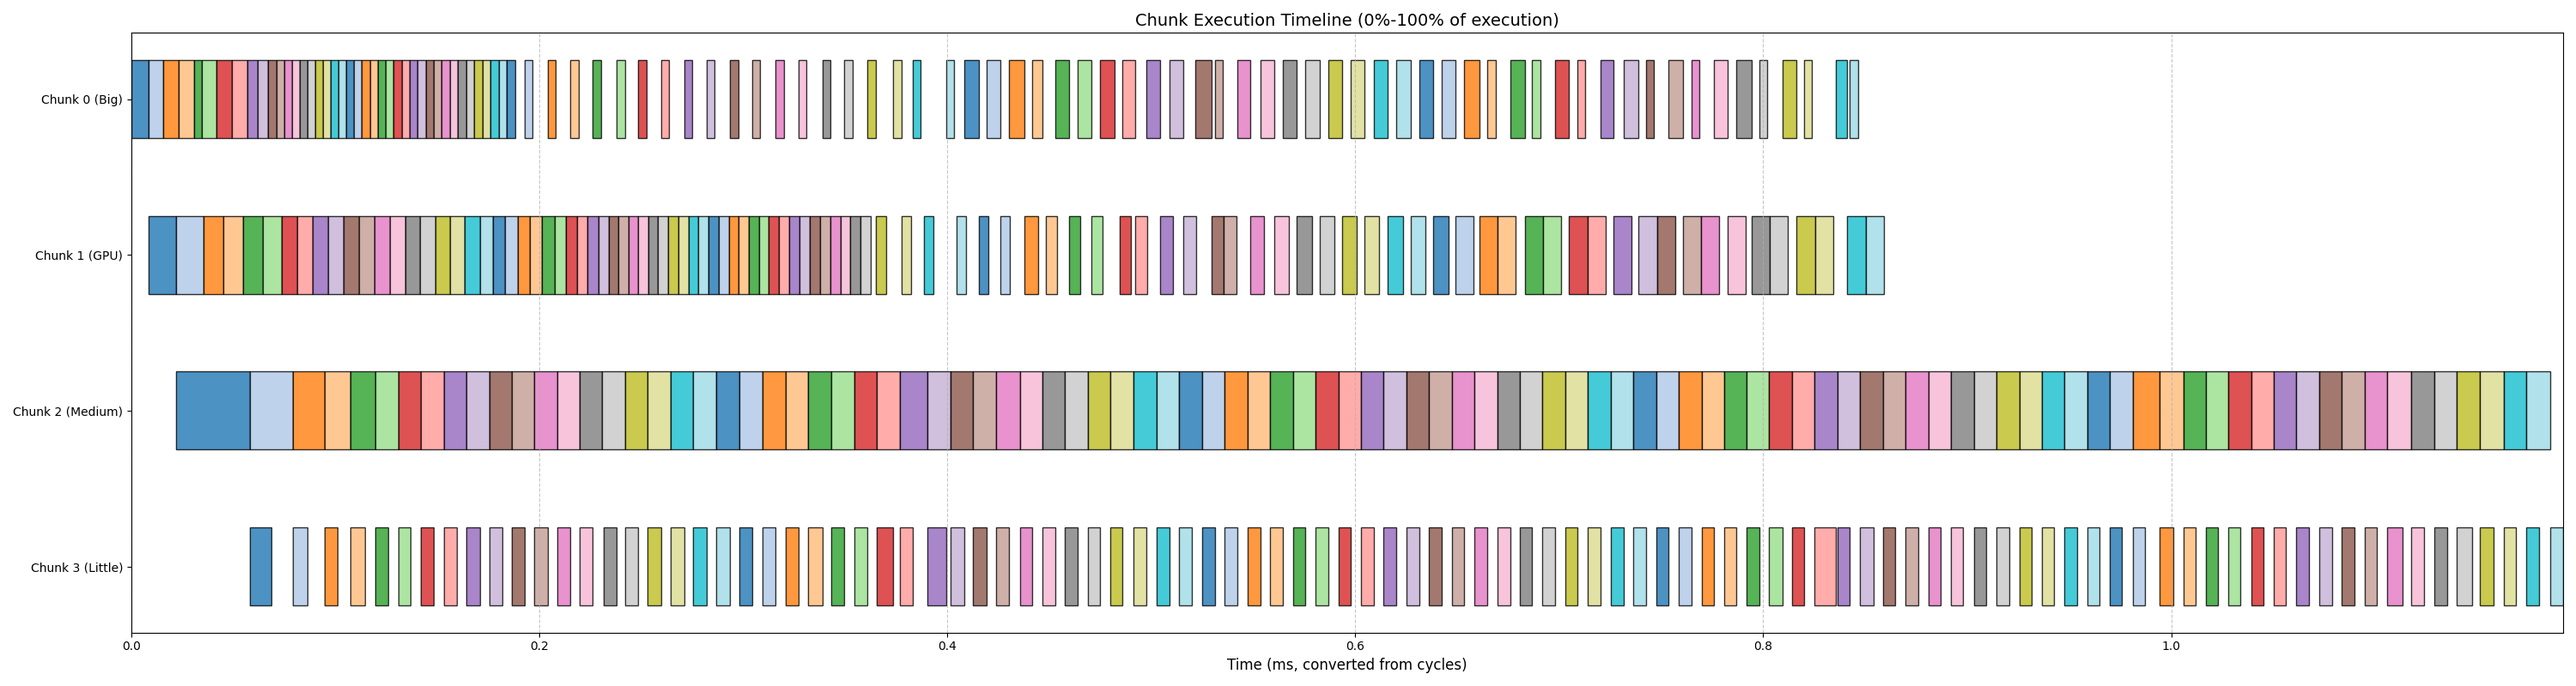
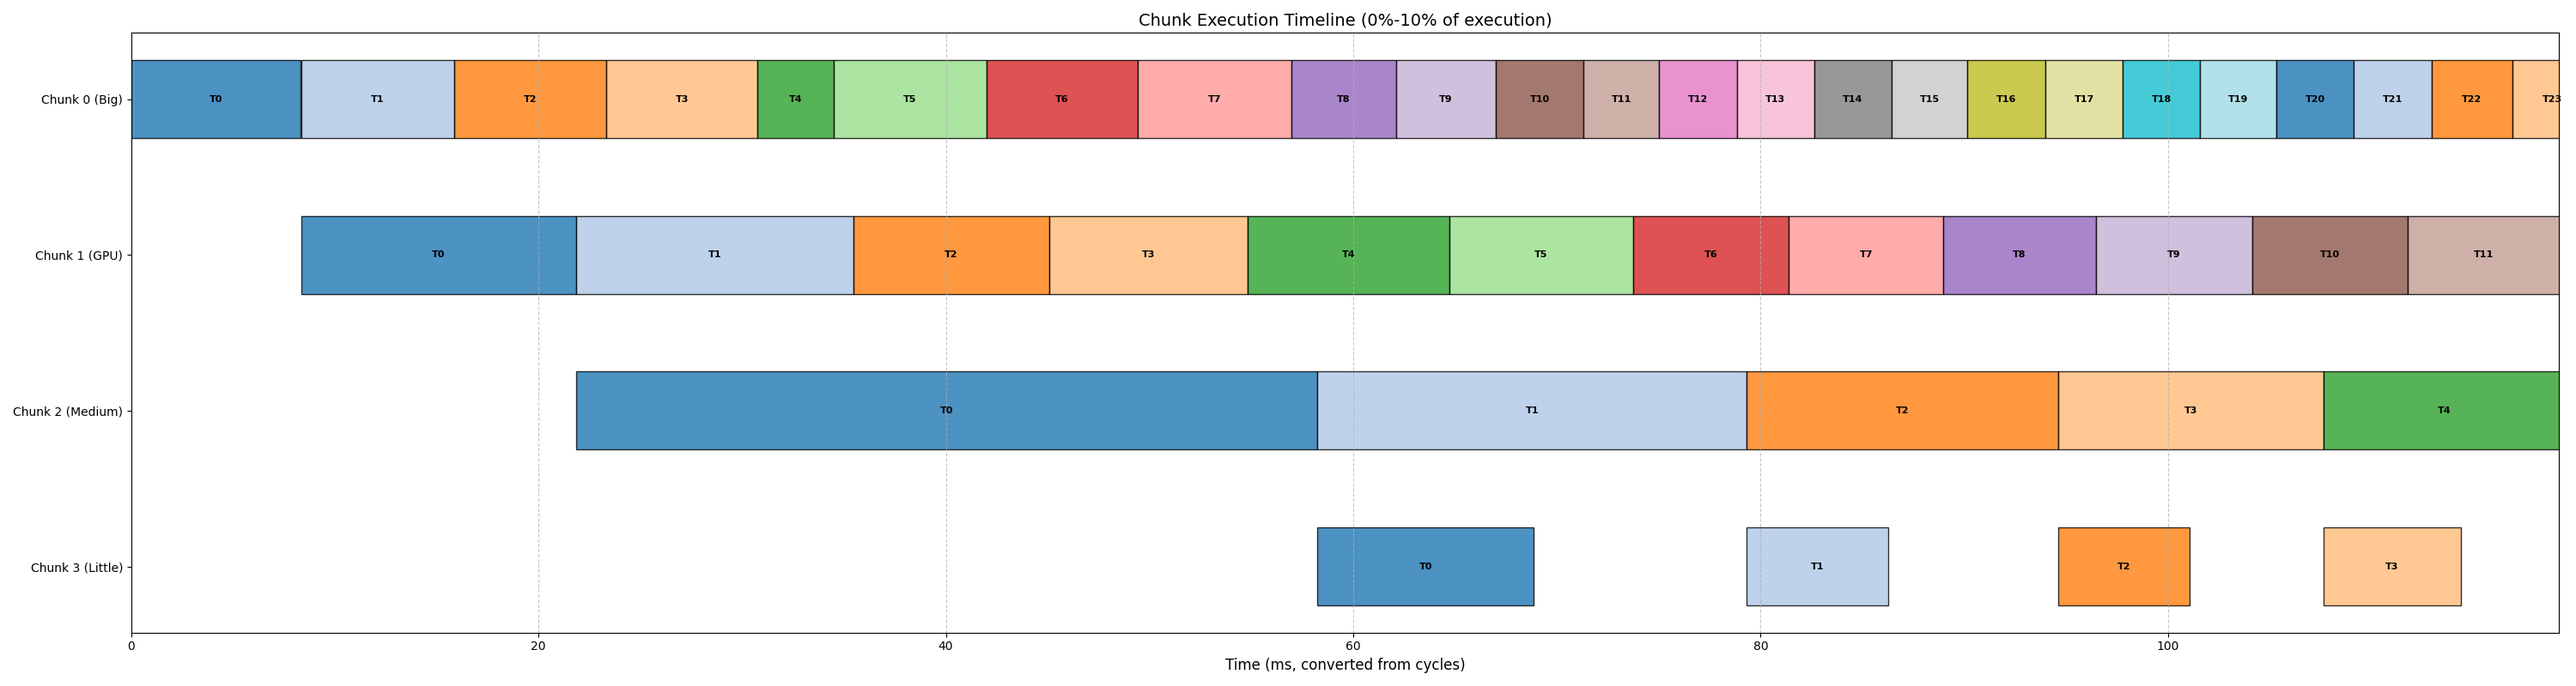
save

diff --git a/scripts-v2/analysis/gen_chunk_figure.py b/scripts-v2/analysis/gen_chunk_figure.py
@@ -2,6 +2,7 @@ import os
 import re
 import matplotlib.pyplot as plt
 import numpy as np
+from collections import defaultdict
 
 base_dir = os.path.dirname(os.path.abspath(__file__))
 import argparse
@@ -23,7 +24,7 @@ parser.add_argument(
     default=0.0,
 )
 parser.add_argument(
-    "--end-time", 
+    "--end-time",
     type=float,
     help="End time as percentage (0.0-1.0) of overall execution",
     default=1.0,
@@ -78,7 +79,9 @@ for line in lines:
     # Match duration in cycles
     duration_match = re.match(r"Duration: (\d+) cycles", line)
     if duration_match:
-        tasks[current_task][current_chunk]["duration_cycles"] = int(duration_match.group(1))
+        tasks[current_task][current_chunk]["duration_cycles"] = int(
+            duration_match.group(1)
+        )
         continue
 
 # Find the maximum chunk ID in the data
@@ -129,44 +132,71 @@ for task_id in tasks:
     for chunk_id in tasks[task_id]:
         if "start" in tasks[task_id][chunk_id] and "end" in tasks[task_id][chunk_id]:
             # Calculate relative time from start (in cycles)
-            tasks[task_id][chunk_id]["start_norm"] = tasks[task_id][chunk_id]["start"] - min_time
-            tasks[task_id][chunk_id]["end_norm"] = tasks[task_id][chunk_id]["end"] - min_time
-            
+            tasks[task_id][chunk_id]["start_norm"] = (
+                tasks[task_id][chunk_id]["start"] - min_time
+            )
+            tasks[task_id][chunk_id]["end_norm"] = (
+                tasks[task_id][chunk_id]["end"] - min_time
+            )
+
             # Use provided duration if available, otherwise calculate it
             if "duration_cycles" in tasks[task_id][chunk_id]:
                 duration_cycles = tasks[task_id][chunk_id]["duration_cycles"]
             else:
-                duration_cycles = tasks[task_id][chunk_id]["end"] - tasks[task_id][chunk_id]["start"]
-            
+                duration_cycles = (
+                    tasks[task_id][chunk_id]["end"] - tasks[task_id][chunk_id]["start"]
+                )
+
             # Store the duration in cycles
             tasks[task_id][chunk_id]["duration_cycles"] = duration_cycles
 
 # Frequency: 24576000 Hz
 # 1 cycle = 1e6 / 24576000 us
 # 1 cycle = 1e3 / 24576000 ms
-CYCLES_TO_MS = 1.0 / 24576000.0  # Convert cycles to milliseconds
+CYCLES_TO_MS = 1e3 / 24576000.0  # Convert cycles to milliseconds
 
 # Create a dictionary to organize tasks by chunk
 chunks_data = {chunk_id: [] for chunk_id in range(max_chunk_id + 1)}
 
+# Data structures for analysis
+tasks_in_region = set()
+task_durations_by_chunk = defaultdict(lambda: defaultdict(list))
+chunk_total_durations = defaultdict(float)
+
 # Fill in the chunks_data dictionary and filter by time range
 for task_id in tasks:
     for chunk_id in tasks[task_id]:
-        if "start" in tasks[task_id][chunk_id] and "duration_cycles" in tasks[task_id][chunk_id]:
+        if (
+            "start" in tasks[task_id][chunk_id]
+            and "duration_cycles" in tasks[task_id][chunk_id]
+        ):
             # Only include chunks that overlap with our time range
             start_time = tasks[task_id][chunk_id]["start"]
             end_time = tasks[task_id][chunk_id]["end"]
-            
+
             # Skip chunks entirely outside our time range
             if end_time < filter_start_time or start_time > filter_end_time:
                 continue
-                
-            chunks_data[chunk_id].append({
-                "task_id": task_id,
-                "start_ms": (tasks[task_id][chunk_id]["start_norm"]) * CYCLES_TO_MS,
-                "duration_ms": tasks[task_id][chunk_id]["duration_cycles"] * CYCLES_TO_MS,
-                "type": tasks[task_id][chunk_id].get("type", "")
-            })
+
+            # Track tasks in this region
+            tasks_in_region.add(task_id)
+
+            # Track durations for each task in each chunk
+            duration_cycles = tasks[task_id][chunk_id]["duration_cycles"]
+            task_durations_by_chunk[chunk_id][task_id].append(duration_cycles)
+
+            # Track total duration for each chunk
+            chunk_total_durations[chunk_id] += duration_cycles
+
+            chunks_data[chunk_id].append(
+                {
+                    "task_id": task_id,
+                    "start_ms": (tasks[task_id][chunk_id]["start_norm"]) * CYCLES_TO_MS,
+                    "duration_ms": tasks[task_id][chunk_id]["duration_cycles"]
+                    * CYCLES_TO_MS,
+                    "type": tasks[task_id][chunk_id].get("type", ""),
+                }
+            )
 
 # Sort chunk data by start time
 for chunk_id in chunks_data:
@@ -183,7 +213,9 @@ fig, ax = plt.subplots(figsize=(30, 8))  # Increased width to 30 inches
 task_color_map = plt.colormaps["tab20"]
 
 # Define chunk names for y-axis labels based on their types
-chunk_names = [f"Chunk {i} ({chunk_types.get(i, 'Unknown')})" for i in range(max_chunk_id + 1)]
+chunk_names = [
+    f"Chunk {i} ({chunk_types.get(i, 'Unknown')})" for i in range(max_chunk_id + 1)
+]
 
 # Draw the chunks
 y_ticks = []
@@ -193,16 +225,16 @@ for i, chunk_id in enumerate(range(max_chunk_id + 1)):
     y_pos = max_chunk_id - i  # Reverse order to have Chunk 0 at the bottom
     y_ticks.append(y_pos)
     y_labels.append(chunk_names[chunk_id])
-    
+
     # Draw each task in this chunk
     for task_data in chunks_data[chunk_id]:
         task_id = task_data["task_id"]
         start_ms = task_data["start_ms"]
         duration_ms = task_data["duration_ms"]
-        
+
         # Generate color based on task_id for consistency
         color = task_color_map(task_id % 20)
-        
+
         # Draw the bar
         bar = ax.barh(
             y_pos,
@@ -233,7 +265,10 @@ for i, chunk_id in enumerate(range(max_chunk_id + 1)):
 ax.set_yticks(y_ticks)
 ax.set_yticklabels(y_labels)
 ax.set_xlabel("Time (ms, converted from cycles)", fontsize=12)
-ax.set_title(f"Chunk Execution Timeline ({args.start_time*100:.0f}%-{args.end_time*100:.0f}% of execution)", fontsize=14)
+ax.set_title(
+    f"Chunk Execution Timeline ({args.start_time*100:.0f}%-{args.end_time*100:.0f}% of execution)",
+    fontsize=14,
+)
 ax.grid(True, axis="x", linestyle="--", alpha=0.7)
 
 # Set the x-axis limits to our desired time range
@@ -259,3 +294,76 @@ plt.close()
 
 print(f"Chunk execution timeline saved to {output_path}")
 print(f"Time range displayed: {display_start_ms:.2f}ms to {display_end_ms:.2f}ms")
+
+# ----- ANALYSIS OUTPUT -----
+
+# 1. Print all tasks in the region
+print("\n======= TASKS IN SELECTED REGION =======")
+sorted_tasks = sorted(tasks_in_region)
+print(
+    f"Found {len(sorted_tasks)} tasks in the region {args.start_time:.2f}-{args.end_time:.2f}"
+)
+print(f"Tasks: {', '.join(map(str, sorted_tasks))}")
+
+# 2. Calculate and print average duration for each task in each chunk
+print("\n======= AVERAGE TASK DURATIONS BY CHUNK =======")
+for chunk_id in range(max_chunk_id + 1):
+    if chunk_id not in task_durations_by_chunk:
+        continue
+
+    chunk_type = chunk_types.get(chunk_id, "Unknown")
+    print(f"Chunk {chunk_id} ({chunk_type}):")
+
+    # Calculate average duration for each task
+    for task_id, durations in sorted(task_durations_by_chunk[chunk_id].items()):
+        avg_duration_cycles = sum(durations) / len(durations)
+        avg_duration_ms = avg_duration_cycles * CYCLES_TO_MS
+        print(
+            f"  Task {task_id}: {avg_duration_cycles:.2f} cycles ({avg_duration_ms:.6f} ms)"
+        )
+
+    # Print average across all tasks for this chunk
+    all_durations = [
+        d
+        for task_durations in task_durations_by_chunk[chunk_id].values()
+        for d in task_durations
+    ]
+    if all_durations:
+        avg_all_tasks_cycles = sum(all_durations) / len(all_durations)
+        avg_all_tasks_ms = avg_all_tasks_cycles * CYCLES_TO_MS
+        print(
+            f"  All Tasks Average: {avg_all_tasks_cycles:.2f} cycles ({avg_all_tasks_ms:.6f} ms)"
+        )
+    print()
+
+# 3. Find the widest chunk (most execution time) in the region
+print("\n======= WIDEST CHUNK IN REGION =======")
+if chunk_total_durations:
+    widest_chunk_id = max(chunk_total_durations, key=chunk_total_durations.get)
+    widest_chunk_duration_cycles = chunk_total_durations[widest_chunk_id]
+    widest_chunk_duration_ms = widest_chunk_duration_cycles * CYCLES_TO_MS
+    widest_chunk_type = chunk_types.get(widest_chunk_id, "Unknown")
+
+    print(f"Widest chunk: Chunk {widest_chunk_id} ({widest_chunk_type})")
+    print(
+        f"Total execution time: {widest_chunk_duration_cycles:.2f} cycles ({widest_chunk_duration_ms:.6f} ms)"
+    )
+
+    # Calculate percentage of time spent in this chunk
+    total_execution_cycles = sum(chunk_total_durations.values())
+    percentage = (widest_chunk_duration_cycles / total_execution_cycles) * 100
+    print(f"Percentage of selected region execution time: {percentage:.2f}%")
+
+    # Show execution breakdown for all chunks
+    print("\nExecution time breakdown for all chunks in region:")
+    for chunk_id, duration in sorted(
+        chunk_total_durations.items(), key=lambda x: x[1], reverse=True
+    ):
+        chunk_type = chunk_types.get(chunk_id, "Unknown")
+        duration_ms = duration * CYCLES_TO_MS
+        chunk_percentage = (duration / total_execution_cycles) * 100
+        print(
+            f"  Chunk {chunk_id} ({chunk_type}): {duration:.2f} cycles ({duration_ms:.6f} ms), {chunk_percentage:.2f}%"
+        )
+else:
+    print("No chunk execution data found in the selected region.")

diff --git a/scripts-v2/gen_schedule/schedule.py b/scripts-v2/gen_schedule/schedule.py
@@ -71,12 +71,40 @@ for c in core_types:
 # Solve and display the solution.
 if opt.check() == sat:
     m = opt.model()
-    print("Optimal chunk time:", m[T_chunk])
+    print(f"Optimal chunk time: {m[T_chunk]} = {float(m[T_chunk].as_fraction())} ms")
     for i in range(num_stages):
         for c in core_types:
             if m.evaluate(x[(i, c)]):
                 print(
                     f"Stage {i}: core type {c} with time {stage_timings[i][core_types.index(c)]}"
                 )
+
+
+    # Print chunk summary
+    print("\nMath model summary:")
+    current_chunk = 0
+    current_core_type = None
+    chunk_time = 0.0
+    for i in range(num_stages):
+        for c in core_types:
+            if m.evaluate(x[(i, c)]):
+                if current_core_type is None:
+                    current_core_type = c
+                    chunk_time = stage_timings[i][core_types.index(c)]
+                elif c == current_core_type:
+                    chunk_time += stage_timings[i][core_types.index(c)]
+                else:
+                    print(f"chunk {current_chunk} ({current_core_type}): {chunk_time:.5f} ms")
+                    current_chunk += 1
+                    current_core_type = c
+                    chunk_time = stage_timings[i][core_types.index(c)]
+                break
+    
+    # Print the last chunk
+    if current_core_type is not None:
+        print(f"chunk {current_chunk} ({current_core_type}): {chunk_time:.5f} ms")
+
+
 else:
     print("No solution found.")
+

diff --git a/README.md b/README.md
@@ -114,3 +114,36 @@ just compare-all > full_output.raw
 grep 'PROCESSOR=' full_output.raw > full_output.txt
 py analy.py
 ```
+
+
+```
+Optimal chunk time: 577227/50000 = 11.54454 ms
+Stage 0: core type Big with time 7.89115
+Stage 1: core type GPU with time 4.95056
+Stage 2: core type GPU with time 4.36582
+Stage 3: core type Medium with time 6.49812
+Stage 4: core type Medium with time 1.66993
+Stage 5: core type Medium with time 1.69134
+Stage 6: core type Medium with time 1.68515
+Stage 7: core type Little with time 6.29989
+Stage 8: core type Little with time 0.182615
+
+Math model summary:
+chunk 0 (Big): 7.89115 ms
+chunk 1 (GPU): 9.31638 ms
+chunk 2 (Medium): 11.54454 ms
+chunk 3 (Little): 6.48251 ms
+
+Real measurements:
+  All Tasks Average: 141961.49 cycles (5.776428 ms)
+  All Tasks Average: 166560.19 cycles (6.777352 ms)
+  All Tasks Average: 275456.24 cycles (11.208343 ms)
+  All Tasks Average: 157681.26 cycles (6.416067 ms)
+  Widest Task: 11.208343 ms
+
+diff of optimal and widest real measurement:
+  Raw: 11.208343 - 11.54454 = -0.336197 ms
+  Percentage: -0.336197 / 11.54454 = -2.91%
+
+```
+
